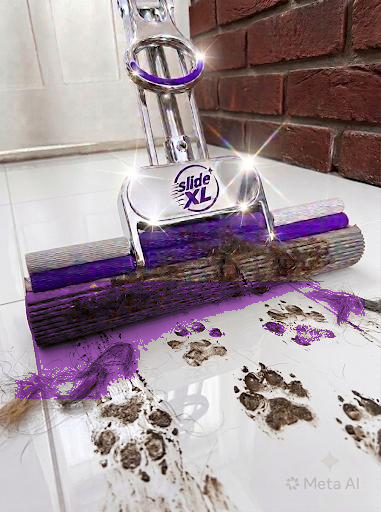
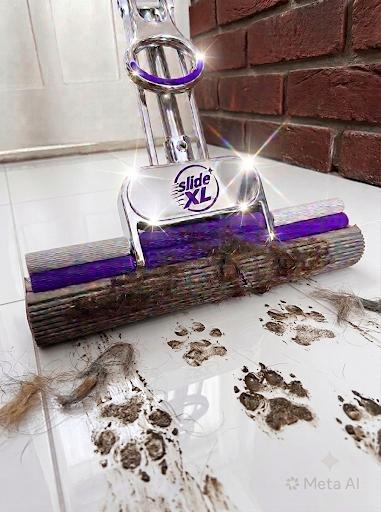
Fix botched photo edits: restore originals and match captions
Remove purple overlay artifacts from mop/Mike photos by redeploying
unedited source images. Point Mike caption at the LA shot only, and
replace nonsensical muddy-noses copy with muddy-paws wording.

Changed region(s): [[0.0289, 0.5312, 0.9816, 0.7812]]

diff --git a/src/components/HomeSections.tsx b/src/components/HomeSections.tsx
@@ -162,13 +162,13 @@ export function MeetMike() {
         <div className="relative">
           <Image
             src="/images/mike-tamanui-coast.png"
-            alt="Mike the Mop King with Tamanui on the coast, holding Slide XL"
-            width={1536}
+            alt="Mike the Mop King in Los Angeles with Slide XL"
+            width={1051}
             height={1024}
             className="h-auto w-full rounded-2xl object-cover"
           />
           <p className="mt-3 text-sm text-white/55">
-            Mike the Mop King & Tamanui — the faces of the Slide XL campaign.
+            Mike the Mop King — Los Angeles.
           </p>
         </div>
         <div>
@@ -176,7 +176,7 @@ export function MeetMike() {
             The Aussie behind the mop
           </p>
           <h2 className="mt-3 font-display text-3xl font-bold tracking-tight sm:text-4xl">
-            Meet Mike the Mop King — and Tamanui.
+            Meet Mike the Mop King.
           </h2>
           <p className="mt-5 text-lg leading-relaxed text-white/80">
             Michael Clegg invents like he cleans: no nonsense, plenty of heart,
@@ -251,12 +251,12 @@ export function BeforeAfter() {
               Tamanui-approved
             </p>
             <h2 className="mt-3 font-display text-3xl font-bold tracking-tight text-ink sm:text-4xl">
-              Muddy noses. Shed hair. Spotless after.
+              Muddy paws. Shed hair. Spotless after.
             </h2>
             <p className="mt-4 text-ink-muted leading-relaxed">
-              The campaign runs on real mess — not studio glitter. If your dog
-              treats the hallway like a racetrack, you already know why Slide XL
-              exists.
+              Tamanui puts Slide XL through real mess — muddy paws, shed hair,
+              hallway chaos. If your dog treats the floor like a racetrack, you
+              already know why this mop exists.
             </p>
           </div>
           <Image
